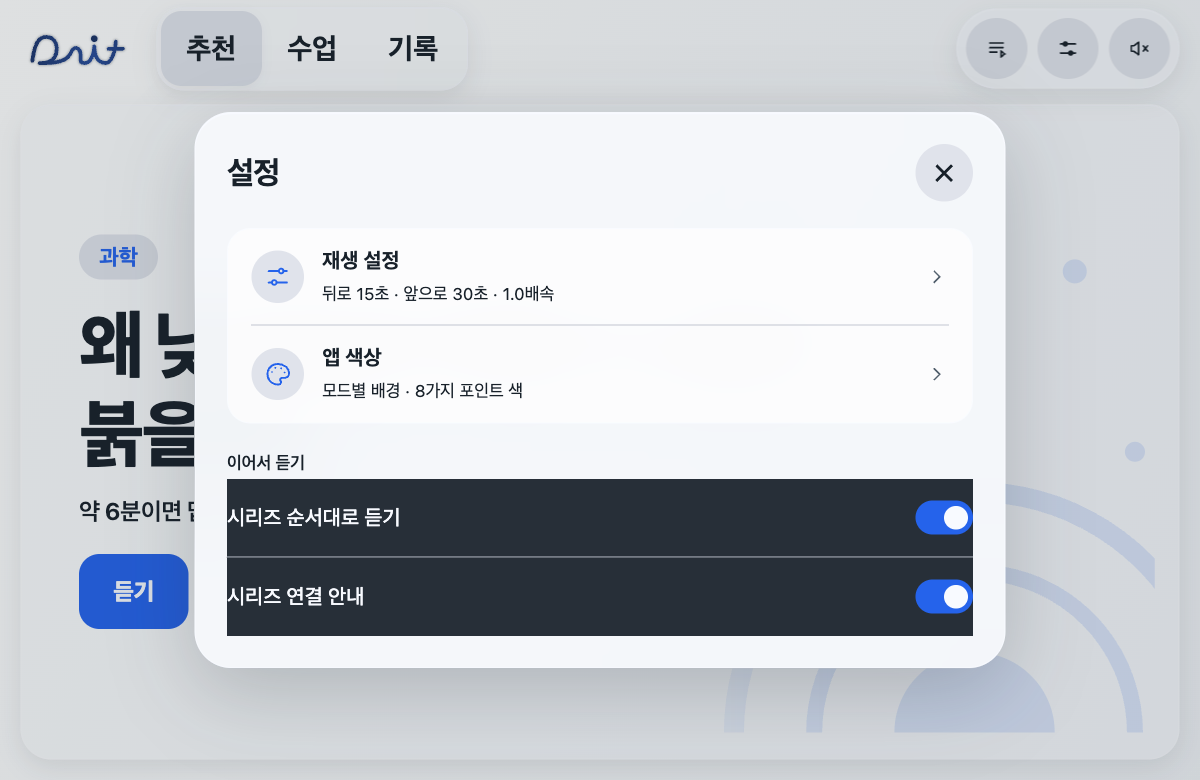
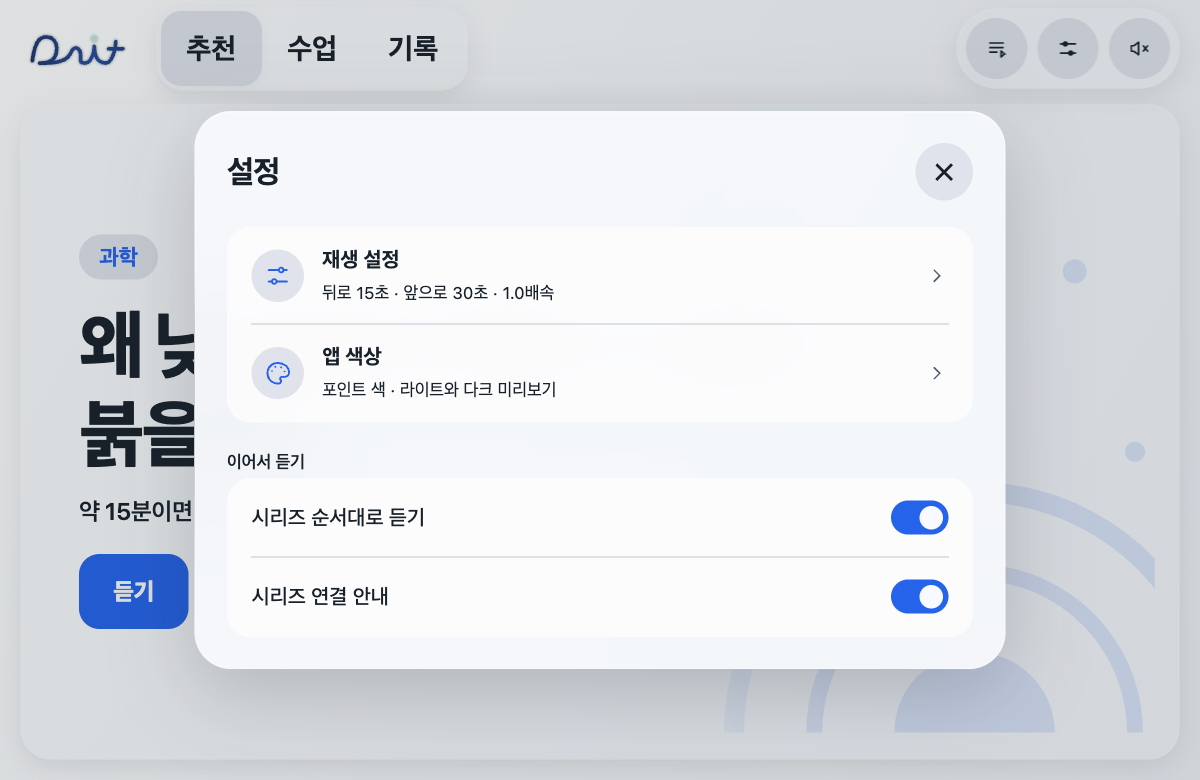
Fix color selection and preview one accent in both appearance modes

diff --git a/android/app/src/main/assets/dait-appearance.js b/android/app/src/main/assets/dait-appearance.js
@@ -1,7 +1,7 @@
 /* Appearance only: native lesson, navigation, rewards and driving rules stay in the app. */
 (() => {
   'use strict';
-  const KEY = 'dait.pearl.colors.v4';
+  const KEY = 'dait.pearl.colors.v5';
   const DEFAULT = { start:'#ffffff', end:'#eef1f5', accent:'#2563eb' };
   const DARK = { start:'#090b0e', end:'#1b2028', accent:'#2563eb' };
   const ACCENTS = [['#2563eb','블루'],['#7c3aed','바이올렛'],['#c72975','로즈'],['#d74b36','코랄'],['#a86b12','앰버'],['#16834e','그린'],['#007d87','틸'],['#536378','슬레이트']];
@@ -10,19 +10,22 @@
   const rgb = hex => [1, 3, 5].map(i => parseInt(hex.slice(i, i + 2), 16));
   const luminance = c => c.map(v => { v /= 255; return v <= .04045 ? v / 12.92 : ((v + .055) / 1.055) ** 2.4; }).reduce((sum,v,i)=>sum+v*[.2126,.7152,.0722][i],0);
   const contrast = (a,b)=>(Math.max(a,b)+.05)/(Math.min(a,b)+.05);
-  const cloneProfiles = value => ({mode:value.mode,light:{...value.light},dark:{...value.dark}});
+  const makeProfiles = (mode,accent) => ({mode,light:{...DEFAULT,accent},dark:{...DARK,accent}});
+  const storedAppearance = value => ({mode:value.mode,accent:value[value.mode].accent});
   const validAccent = value => ACCENTS.some(([hex])=>hex===value);
-  let profiles = {mode:'light',light:{...DEFAULT},dark:{...DARK}};
+  let profiles = makeProfiles('light',DEFAULT.accent);
   const stored = settingsStore.read(KEY,null);
-  if(stored && ['light','dark'].includes(stored.mode) && validAccent(stored.light?.accent) && validAccent(stored.dark?.accent)) {
-    profiles = {mode:stored.mode,light:{...DEFAULT,accent:stored.light.accent},dark:{...DARK,accent:stored.dark.accent}};
+  if(stored && ['light','dark'].includes(stored.mode) && validAccent(stored.accent)) {
+    profiles = makeProfiles(stored.mode,stored.accent);
   } else {
-    // Keep legacy palettes intact; only carry their mode into the new neutral appearance.
+    // Preserve old palettes; migrate the current mode's accent to both previews.
+    const v4 = settingsStore.read('dait.pearl.colors.v4',null);
     const previous = settingsStore.read('dait.pearl.colors.v3',null) || settingsStore.read('dait.pearl.colors.v2',null);
     const legacy = settingsStore.read('dait.pearl.colors.v1',null);
-    if(previous && ['light','dark'].includes(previous.mode) && HEX.test(previous.light?.start||'') && HEX.test(previous.dark?.start||''))profiles.mode=previous.mode;
+    if(v4 && ['light','dark'].includes(v4.mode) && validAccent(v4[v4.mode]?.accent))profiles=makeProfiles(v4.mode,v4[v4.mode].accent);
+    else if(previous && ['light','dark'].includes(previous.mode) && HEX.test(previous.light?.start||'') && HEX.test(previous.dark?.start||''))profiles.mode=previous.mode;
     else if(legacy && HEX.test(legacy.start||'') && HEX.test(legacy.end||'') && luminance(rgb(legacy.start))+luminance(rgb(legacy.end))<.55)profiles.mode='dark';
-    try{settingsStore.write(KEY,profiles)}catch(_){/* Apply even if storage is unavailable. */}
+    try{settingsStore.write(KEY,storedAppearance(profiles))}catch(_){/* Apply even if storage is unavailable. */}
   }
   let saved = { ...profiles[profiles.mode] };
   let active = { ...saved }, draft = null, dialog = null, focusBefore = null, frame = 0, noticeTimer;
@@ -52,7 +55,9 @@
     return n.length >= 3 ? [...n.slice(0, 3), n.length === 4 ? n[3] : 1] : [0, 0, 0, 0];
   }
   function measure(element) {
-    if (!element.getClientRects().length || element.matches('.pearl-theme-btn[aria-pressed=true]')) return null;
+    // Decorative switch tracks contain hidden state copy, not rendered text.
+    // Measuring them as text can replace an entire settings row with a dark plate.
+    if (element.closest('[aria-hidden="true"],.pearl-mode-preview') || !element.getClientRects().length || element.matches('.pearl-theme-btn[aria-pressed=true]')) return null;
     const range = document.createRange(); range.selectNodeContents(element);
     let rect = range.getBoundingClientRect(); if (!rect.width) rect = element.getBoundingClientRect();
     if (!rect.width) return null;
@@ -281,11 +286,11 @@
     const toggle = (action, label, on) => `<button class="pearl-settings-switch" data-appearance-action="${action}" role="switch" aria-checked="${on}"><strong>${label}</strong><span aria-hidden="true">${on ? '켜짐' : '꺼짐'}</span></button>`;
     shell('설정', `<div class="pearl-settings-menu pearl-settings-home"><div class="pearl-settings-group">
       ${row('playback', '재생 설정', `뒤로 ${lessonIntervalText(prefs.back)} · 앞으로 ${lessonIntervalText(prefs.forward)} · ${prefs.rate.toFixed(1)}배속`)}
-      ${row('colors', '앱 색상', '모드별 배경 · 8가지 포인트 색')}
-      </div><h3 class="pearl-settings-section">이어서 듣기</h3>
+      ${row('colors', '앱 색상', '포인트 색 · 라이트와 다크 미리보기')}
+      </div><h3 class="pearl-settings-section">이어서 듣기</h3><div class="pearl-settings-group">
       ${toggle('series', '시리즈 순서대로 듣기', seriesOn())}
       ${toggle('series-cues', '시리즈 연결 안내', lessonQueue.cues)}
-    </div>`);
+    </div></div>`);
   };
   window.playlistNotice = notice;
   window.openDaitPanel = (title, body, className, handler) => {
@@ -336,28 +341,34 @@
 
   function openColors() {
     if(!vehiclePolicy.allows('settings')){notice('주행중엔 설정을 바꿀 수 없어요.');return;}
-    const draftProfiles=cloneProfiles(profiles);
-    let editingMode=profiles.mode;
-    shell('앱 색상', `<form id="pearlColorForm"><div class="pearl-color-modes" role="group" aria-label="화면 모드">${[['light','라이트 모드'],['dark','다크 모드']].map(([mode,label])=>`<button type="button" class="pearl-color-mode" data-color-mode="${mode}" aria-pressed="false">${label}</button>`).join('')}</div><div class="pearl-accent-preview"><strong>나의 배움</strong><span>화이트·블랙 기반의 차분한 배경</span><i aria-hidden="true"></i></div><h3 class="pearl-accent-title">포인트 컬러</h3><div class="pearl-accent-options" role="group" aria-label="포인트 컬러">${ACCENTS.map(([hex,name])=>`<button type="button" data-accent="${hex}" aria-label="${name}" aria-pressed="false"><span style="--swatch:${hex}" aria-hidden="true"></span><small>${name}</small></button>`).join('')}</div><div class="pearl-settings-footer"><p id="pearlColorMessage" role="status">모드마다 따로 저장돼요.</p><button class="primary-btn" type="submit">저장</button></div></form>`);
+    let selectedAccent=profiles[profiles.mode].accent, selectedMode=profiles.mode;
+    const play='<svg viewBox="0 0 24 24" fill="currentColor" aria-hidden="true"><path d="m9 5 11 7-11 7z"/></svg>';
+    shell('앱 색상', `<form id="pearlColorForm"><h3 class="pearl-accent-title">포인트 컬러</h3><div class="pearl-accent-options" role="group" aria-label="포인트 컬러">${ACCENTS.map(([hex,name])=>`<button type="button" data-accent="${hex}" aria-label="${name}" aria-pressed="false"><span style="--swatch:${hex}" aria-hidden="true"><svg viewBox="0 0 24 24" fill="none" stroke="currentColor" stroke-width="2.4"><path d="m6 12 4 4 8-9"/></svg></span></button>`).join('')}</div><div class="pearl-mode-previews" role="group" aria-label="화면 모드 미리보기">${[['light','라이트'],['dark','다크']].map(([mode,label])=>`<button type="button" class="pearl-mode-preview" data-preview-mode="${mode}" aria-label="${label} 모드 적용" aria-pressed="false"><span class="pearl-preview-label">${label}<i aria-hidden="true"></i></span><span class="pearl-preview-screen"><span class="pearl-preview-heading">나의 배움</span><span class="pearl-preview-content"><strong>동백꽃과 점순이</strong><span class="pearl-preview-wave" aria-hidden="true">${[12,23,30,20,12].map(h=>`<i style="height:${h}px"></i>`).join('')}</span></span><span class="pearl-preview-controls" aria-hidden="true"><i class="pearl-preview-play">${play}</i><i class="pearl-preview-track"></i></span></span></button>`).join('')}</div><div class="pearl-settings-footer"><p id="pearlColorMessage" role="status"></p><button class="primary-btn" type="submit">저장</button></div></form>`);
     dialog.classList.add('pearl-color-dialog','pearl-neutral-colors');
     const sync=()=>{
-      const selected=draftProfiles[editingMode];
-      dialog.querySelectorAll('[data-color-mode]').forEach(b=>b.setAttribute('aria-pressed',String(b.dataset.colorMode===editingMode)));
-      dialog.querySelectorAll('[data-accent]').forEach(b=>b.setAttribute('aria-pressed',String(b.dataset.accent===selected.accent)));
-      apply(selected,editingMode);
+      apply({...profiles[selectedMode],accent:selectedAccent},selectedMode);
+      dialog.querySelectorAll('[data-accent]').forEach(b=>b.setAttribute('aria-pressed',String(b.dataset.accent===selectedAccent)));
+      dialog.querySelectorAll('[data-preview-mode]').forEach(b=>{
+        const mode=b.dataset.previewMode, colors={...(mode==='light'?DEFAULT:DARK),accent:selectedAccent};
+        b.setAttribute('aria-pressed',String(mode===selectedMode));
+        for(const [key,value] of Object.entries(DaitPalette.derive(colors,mode).tokens))b.style.setProperty(key,value);
+        b.style.setProperty('--preview-label-ink',palette.tokens['--ink']);
+        b.style.setProperty('--preview-label-muted',palette.tokens['--muted']);
+        b.style.setProperty('--preview-selected',palette.tokens['--lilac']);
+        b.style.setProperty('--preview-bg',`linear-gradient(120deg,${colors.start},${colors.end})`);
+      });
     };
     dialog.addEventListener('click',e=>{
-      const mode=e.target.closest('[data-color-mode]')?.dataset.colorMode;
-      if(mode){editingMode=mode;sync();return;}
-      const accent=e.target.closest('[data-accent]')?.dataset.accent;
-      if(validAccent(accent)){draftProfiles[editingMode].accent=accent;sync();}
+      const button=e.target.closest('button');if(!button || !dialog?.contains(button))return;
+      if(button.dataset.previewMode){selectedMode=button.dataset.previewMode;sync();return;}
+      if(validAccent(button.dataset.accent)){selectedAccent=button.dataset.accent;sync();}
     });
     dialog.querySelector('form').addEventListener('submit',e=>{
       e.preventDefault();
       if(isDrivingMode){close();notice('주행중엔 설정을 바꿀 수 없어요.');return;}
-      draftProfiles.mode=editingMode;
-      try{settingsStore.write(KEY,draftProfiles)}catch(_){dialog.querySelector('#pearlColorMessage').textContent='저장할 수 없어요. 기기 저장 공간을 확인해 주세요.';return;}
-      profiles=cloneProfiles(draftProfiles);saved={...profiles[profiles.mode]};close();
+      const next=makeProfiles(selectedMode,selectedAccent);
+      try{settingsStore.write(KEY,storedAppearance(next))}catch(_){dialog.querySelector('#pearlColorMessage').textContent='저장할 수 없어요. 기기 저장 공간을 확인해 주세요.';return;}
+      profiles=next;saved={...profiles[profiles.mode]};close();
     });
     sync();
   }
@@ -365,7 +376,7 @@
     if (isDrivingMode) return;
     profiles.mode = profiles.mode === 'dark' ? 'light' : 'dark';
     saved = { ...profiles[profiles.mode] };
-    try { settingsStore.write(KEY, profiles); } catch (_) { /* 이번 화면에서만 바꾼다. */ }
+    try { settingsStore.write(KEY, storedAppearance(profiles)); } catch (_) { /* 이번 화면에서만 바꾼다. */ }
     apply(saved);
     document.querySelector('.pearl-theme-btn')?.setAttribute('aria-pressed', String(profiles.mode === 'dark'));
   };

diff --git a/android/app/src/main/assets/dait-pearl.css b/android/app/src/main/assets/dait-pearl.css
@@ -654,17 +654,33 @@ button.pearl-badge { color:var(--ink); cursor:pointer; font-family:inherit; }
 .badge-detail-copy h3 { margin:16px 0 7px;font-size:16px;color:var(--ink); }
 .badge-detail-copy h3:first-child {margin-top:0}
 .badge-detail-copy p { margin:0;line-height:1.65;font-size:15px;color:var(--muted);overflow-wrap:anywhere; }
-.pearl-neutral-colors .pearl-accent-preview {padding:18px;margin:14px 0;background:var(--glass-raised);border:1px solid var(--glass-edge);border-radius:16px;display:flex;flex-direction:column;gap:8px;}
-.pearl-accent-preview strong {font-size:20px;color:var(--lilac);}
-.pearl-accent-preview span {font-size:13px;color:var(--muted);}
-.pearl-accent-preview i {height:4px;width:35%;border-radius:4px;background:var(--lilac);}
-.pearl-accent-title {font-size:16px;margin:16px 0 10px;}
-.pearl-accent-options {display:grid;grid-template-columns:repeat(4,minmax(0,1fr));gap:8px;}
-.pearl-accent-options button {display:flex;align-items:center;justify-content:center;flex-direction:column;gap:7px;min-height:68px;padding:8px 4px;border:1px solid transparent;border-radius:12px;background:transparent;color:var(--ink);}
-.pearl-accent-options button[aria-pressed=true] {border-color:var(--lilac);background:var(--soft);}
-.pearl-accent-options button>span {height:26px;width:26px;background:var(--swatch);border-radius:50%;}
-.pearl-accent-options small {font-size:12px;}
-@container(max-height:460px){.pearl-neutral-colors .pearl-accent-preview{display:none}.pearl-accent-options button{min-height:52px;gap:4px;padding:5px}.pearl-accent-options button>span{width:20px;height:20px}.pearl-accent-title{margin:12px 0 7px}.badge-detail-copy h3{margin:10px 0 4px}}
+/* One accent, with light and dark examples visible together. */
+.pearl-neutral-colors .pearl-accent-title {font-size:15px;margin:0 0 10px;}
+.pearl-accent-options {display:grid;grid-template-columns:repeat(8,minmax(44px,1fr));gap:6px;}
+.pearl-settings-dialog .pearl-accent-options button {display:grid;place-items:center;min-width:44px;min-height:48px;padding:4px;border:0;border-radius:50%;background:transparent;cursor:pointer;}
+.pearl-accent-options button>span {display:grid;place-items:center;width:30px;height:30px;border-radius:50%;background:var(--swatch);color:#fff;box-shadow:0 0 0 3px var(--glass-menu),0 0 0 5px transparent;}
+.pearl-accent-options button[aria-pressed=true]>span {box-shadow:0 0 0 3px var(--glass-menu),0 0 0 5px var(--swatch);}
+.pearl-accent-options svg {width:17px;height:17px;visibility:hidden;}
+.pearl-accent-options [aria-pressed=true] svg {visibility:visible;}
+.pearl-mode-previews {display:grid;grid-template-columns:repeat(2,minmax(0,1fr));gap:14px;margin-top:20px;}
+.pearl-settings-dialog .pearl-mode-preview {display:block;min-width:0;text-align:left;padding:0;border:0;background:transparent;border-radius:16px;color:var(--ink);cursor:pointer;}
+.pearl-preview-label {display:flex;align-items:center;justify-content:space-between;margin:0 4px 10px;font-size:14px;color:var(--preview-label-ink);}
+.pearl-preview-label>i {width:16px;height:16px;border:1.5px solid var(--preview-label-muted);border-radius:50%;box-sizing:border-box;}
+[aria-pressed=true]>.pearl-preview-label>i {border:5px solid var(--preview-selected);}
+.pearl-preview-screen {display:block;padding:16px;border-radius:16px;background:var(--preview-bg);box-shadow:inset 0 0 0 1px var(--line);}
+.pearl-preview-heading {display:block;font-size:12px;color:var(--muted);}
+.pearl-preview-content {display:flex;gap:10px;align-items:center;justify-content:space-between;margin:12px 0 18px;}
+.pearl-settings-dialog .pearl-mode-preview strong {font-size:17px;line-height:1.4;color:var(--ink);}
+.pearl-preview-wave {display:flex;gap:3px;align-items:center;flex-shrink:0;}
+.pearl-preview-wave i {width:3px;border-radius:4px;background:var(--lilac);}
+.pearl-preview-controls {display:flex;gap:12px;align-items:center;}
+.pearl-preview-play {display:grid;place-items:center;flex:0 0 32px;width:32px;height:32px;border-radius:50%;background:var(--lilac);color:var(--on-lilac);}
+.pearl-preview-play svg {width:18px;height:18px;}
+.pearl-preview-track {position:relative;height:3px;flex:1;background:var(--soft);border-radius:4px;}
+.pearl-preview-track::before {content:'';display:block;width:40%;height:100%;border-radius:inherit;background:var(--lilac);}
+.pearl-mode-preview[aria-pressed=true] .pearl-preview-screen {box-shadow:inset 0 0 0 2px var(--lilac);}
+@container(max-height:460px){.pearl-mode-previews{margin-top:14px;gap:12px}.pearl-preview-screen{padding:12px}.pearl-preview-content{margin:8px 0 12px}}
+@media(max-width:480px){.pearl-accent-options{grid-template-columns:repeat(4,minmax(44px,1fr));gap:2px}.pearl-mode-previews{gap:10px}.pearl-preview-screen{padding:10px}.pearl-settings-dialog .pearl-mode-preview strong{font-size:14px}.pearl-preview-wave{display:none}}
 @media(max-width:480px){.badge-detail-layout{grid-template-columns:1fr;gap:12px}.badge-detail-art img{max-width:130px}.pearl-nav{gap:6px}.pearl-tools{gap:4px;--tool-pad:6px}.pearl-nav nav button{padding:0 9px}.pearl-brand .dait-brand-badge svg{width:48px}}
 
 @container(max-height:460px){.badge-detail-art img{max-width:170px}.badge-detail-copy h3{font-size:14px}.badge-detail-copy p{font-size:14px;line-height:1.5}}
@@ -687,3 +703,5 @@ button.pearl-badge { color:var(--ink); cursor:pointer; font-family:inherit; }
 .pearl-record-list .pearl-record-state-ring.is-complete{color:#24775d}
 .pearl-night .pearl-record-list .pearl-record-state-ring.is-complete{color:#7dd9b6}
 .pearl-record-scroll[hidden]{display:none}
+
+@container(max-height:460px){.pearl-neutral-colors .pearl-settings-heading{margin-bottom:8px}.pearl-neutral-colors .pearl-accent-title{margin-bottom:6px}.pearl-neutral-colors .pearl-mode-previews{margin-top:10px}}

diff --git a/android/app/src/main/assets/dait-preview.html b/android/app/src/main/assets/dait-preview.html
@@ -4,8 +4,8 @@
   <meta charset="utf-8">
   <meta name="viewport" content="width=device-width, initial-scale=1">
   <title>DAIT</title>
-  <link rel="stylesheet" href="dait-base.css?v=polish-20261111-r3">
-  <link rel="stylesheet" href="dait-pearl.css?v=polish-20261111-r3">
+  <link rel="stylesheet" href="dait-base.css?v=polish-20261111-r4">
+  <link rel="stylesheet" href="dait-pearl.css?v=polish-20261111-r4">
 </head>
 <body>
 
@@ -76,17 +76,17 @@
   <script src="dait-sound-levels.js?v=tts-complete-20261110"></script>
   <script src="dait-series.js?v=horizon-layout-20261110"></script>
   <script src="dait-playlist.js?v=horizon-layout-20261110"></script>
-  <script src="dait-badges.js?v=polish-20261111-r3"></script>
+  <script src="dait-badges.js?v=polish-20261111-r4"></script>
   <script src="dait-app-core.js?v=horizon-layout-20261110"></script>
   <script src="dait-app-audio.js?v=horizon-layout-20261110"></script>
-  <script src="dait-app-home.js?v=polish-20261111-r3"></script>
-  <script src="dait-app-lesson.js?v=polish-20261111-r3"></script>
-  <script src="dait-app-player.js?v=polish-20261111-r3"></script>
-  <script src="dait-app-car.js?v=polish-20261111-r3"></script>
+  <script src="dait-app-home.js?v=polish-20261111-r4"></script>
+  <script src="dait-app-lesson.js?v=polish-20261111-r4"></script>
+  <script src="dait-app-player.js?v=polish-20261111-r4"></script>
+  <script src="dait-app-car.js?v=polish-20261111-r4"></script>
   <script src="dait-app-playlist.js?v=horizon-layout-20261110"></script>
   <script src="dait-app-start.js?v=horizon-layout-20261110"></script>
-  <script src="dait-palette.js?v=polish-20261111-r3"></script>
-  <script src="dait-appearance.js?v=polish-20261111-r3"></script>
+  <script src="dait-palette.js?v=polish-20261111-r4"></script>
+  <script src="dait-appearance.js?v=polish-20261111-r4"></script>
   <script src="dait-queue-ui.js?v=pearl-settings-20261110"></script>
   <script src="dait-volume.js?v=horizon-layout-20261110"></script>
 </body>

diff --git a/현재-작업상태.md b/현재-작업상태.md
@@ -8,7 +8,7 @@
 - 수업 7편, 조각 317개다. 309개는 음원이 있고, 2026-11-10에 매미 분량을 늘리려고 더한 8조각(b9·q3·b10·b13·b11·b12·m11·m12)은 음원 대기다(`voice/다시-만들-음원.csv`, 음원 담당 이경민). 음원이 오기 전까지 이 조각은 앱에서 「음원 준비 중」으로 소리 없이 지나가고, 음원 검사가 제출용 앱 만들기를 막는다. 매미는 기존 음원이 약5:08/8:50이었고, 새 조각을 넣으면 실제 말 빠르기로 어림해 약6:30/13:50이다. 8·15·20분 조립은 선택 시간 안에 들어간다. 수업 목록은 [README](README.md), 음원 결과는 [TTS 인계](voice/TTS-인계-2026-11-10.md)에 있다.
 - 시작 화면은 Dait 필기체를 쓰고 i 점에 짧은 소리를 낸다. 보상(깃털·도토리)과 캐릭터는 앱에 없다. 기록 메뉴는 기존 배지 6종을 보존하고 과학·기술·음악·시리즈 완주 4종을 더한 그림 10종을 보여 준다(2026-11-10 사용자 시안 승인 반영). 2026-11-11 사용자 요청으로 실제 완료 기록에 따른 자동 획득·흑백/컬러·상세 설명을 구현했다. 조건과 날짜를 별도 배지 원장에 누적하며, 현재 기록에 없는 과거 이력은 추정하지 않는다.
 - 학교 정보, 등하교 대화·준비물 안내, 가 볼 만한 곳, 위치·다니는 길 기록, 마이크로 답하기, 문 열림 안내는 앱에 없다.
-- 설정과 재생 설정·재생목록·앱 색상을 「진주 목록」으로 맞췄다. 모달·가림막은 앱 영역 안에 머문다. 라이트 화이트·다크 블랙 기반의 중립 배경과 8가지 포인트 색을 모드별로 저장한다. 같은 수업의 듣던 기록은 최신 위치 하나로 정리한다.
+- 설정과 재생 설정·재생목록·앱 색상을 「진주 목록」으로 맞췄다. 모달·가림막은 앱 영역 안에 머문다. 라이트 화이트·다크 블랙 기반의 중립 배경과 8가지 공통 포인트 색 중 하나를 저장한다. 라이트·다크 예시를 나란히 보여 주고 미리보기를 눌러 밝기를 고른다. 같은 수업의 듣던 기록은 최신 위치 하나로 정리한다.
 
 - 2026-11-10 건너뛰기 막기: 수업은 앞으로 건너뛸 수 없다. 뒤로는 자유롭게, 앞으로는 이번에 들은 곳까지만 간다(재생바·앞으로 버튼·핸들·차 재생바 모두). 화면 시험 183개 통과, 브라우저 미리보기로 확인했고 에뮬레이터에서는 확인 안 함. 자세한 것은 `design/수업-재생-이동.md`.
 - 2026-11-10 묶음 규칙: 대본 표의 「묶음」 칸이 같은 조각(발문과 그 답)은 앱이 함께 넣고 함께 뺀다. 발문을 들었으면 도착이 당겨져도 답은 남기고, 이어 듣기에서도 답부터 넣는다. 동백꽃 q1·b4(b4를 필수로 바꿈), 매미 q2·b7, 인공지능 q3·b8·q5·n5, 하늘색 q1·b7을 묶었다. 대사는 바뀌지 않아 기존 음원 그대로다. 매미 b11은 빠질 수 있는 다음 내용을 예고하던 문장을 녹음 전에 지웠다.
@@ -16,6 +16,7 @@
 
 ## 검사
 
+- 2026-11-11 후속: 색상 클릭이 바깥 앱의 모드 선택으로 처리되던 이벤트 범위를 버튼으로 제한했다. 공통 포인트 색과 양쪽 모드 미리보기로 변경했고 색 이름·개별 저장은 제거했다. 숨겨진 스위치 텍스트가 대비 검사에 잡혀 설정 행이 검게 바뀌던 문제도 수정했다. Node 191/191, 실제 브라우저 8색 클릭·키보드·저장/재접속·취소 및 665×420/390×844 확인.
 - 2026-11-11 UI 수정: 화면·기능 시험 190개 통과. 브라우저에서 1200×780·665×420·390×844 기록 링/재생, 배지 상세, 모드별 색 저장, 실제 음원 재생과 들은 범위 내 이동을 확인했다. 추천 분량과 재생 분량 불일치, 조각 재조립 뒤 앞으로 이동 경계를 수정했다. 완료/듣던 기록은 A안 한 목록으로 표시하며 상태 문구와 남은 시간 숫자를 반복하지 않는다. 새 APK 빌드·에뮬레이터 검사는 이번 변경에서 하지 않았다.
 
 

diff --git a/design/앱-배지-재생-설정-수정-2026-11-10.md b/design/앱-배지-재생-설정-수정-2026-11-10.md
@@ -7,7 +7,7 @@
 - [x] 미획득 배지: 터치 시 조건 토스트
 - [x] 일시정지 안내 문구 제거, 플레이·일시정지 아이콘으로 상태 표시
 - [x] 남은 시간은 숫자만 표시
-- [x] 라이트 화이트 / 다크 블랙 기반 그라데이션과 모드별 8가지 포인트 색
+- [x] 라이트 화이트 / 다크 블랙 기반 그라데이션과 공통 8가지 포인트 색
 - [x] 재생목록 진입은 목록에 남기고 설정의 재생목록 항목 제거
 - [x] 상단 라이트·다크 터치 버튼 제거
 - [x] 마우스 이동 때 보이는 카드 불투명 선 제거
@@ -25,7 +25,7 @@
 - 추천 카드에서 짧은 수업을 누를 때 기존 15분 세션이 재사용되던 문제를 수정했다.
 - 마우스 위치만 달리한 화면은 애니메이션을 잠시 정지한 조건에서 동일한 픽셀이다. 카드의 중첩 backdrop-filter를 제거해 움직이는 불투명 경계를 없앴다.
 - 화면 확인: 1200×780, 차량 기준 665×420, 좁은 창 390×844. 획득 배지 상세는 665×420에서 설명·날짜까지 보인다.
-- 이전 임의 배경 색상 데이터는 삭제하지 않고 v4 중립 배경/모드별 포인트 설정으로 전환한다. 저장하지 않고 닫으면 이전 설정을 복구한다.
+- 이전 임의 배경 색상 데이터는 삭제하지 않고 v5 중립 배경/공통 포인트 설정으로 전환한다. 기존 v4에서는 현재 사용 중인 모드의 포인트 색을 가져와 양쪽 모드에 사용한다. 저장하지 않고 닫으면 이전 설정을 복구한다.
 - 실제 차·새 APK·Android 에뮬레이터 검사는 이번 범위에서 하지 않았다.
 
 ## 배지 조건
@@ -40,3 +40,13 @@
 
 ![전](screens/app-polish-20261111/기록-전.png)
 ![후](screens/app-polish-20261111/기록-A안-후.png)
+
+## 후속 수정: 공통 색과 두 모드 예시
+
+- 사용자 최신 요청에 따라 모드별 개별 색 저장을 폐기했다. 색상 원 8개에 이름을 표시하지 않고, 선택한 한 색의 라이트·다크 적용 예시를 동시에 보여 준다. 미리보기를 누르면 화면 밝기를 선택한다.
+- 색상 클릭의 조상 탐색이 앱 영역의 data-color-mode까지 올라가던 오류를 버튼 범위로 수정했다. 원·체크 SVG·버튼 여백 클릭 및 키보드 Space가 같은 선택으로 처리된다.
+- 대비 검사에서 aria-hidden 장식을 제외하고, 독립된 두 미리보기는 각 모드의 검증된 토큰으로 표시한다. 두 시리즈 스위치는 같은 둥근 목록으로 묶었다.
+- Node 191/191 통과. 브라우저에서 8색 모두 선택, 공통 색 저장/재접속, 미저장 닫기 복구, 키보드 선택, 라이트/다크 설정의 검은 덮개 없음 확인. 665×420에서 스크롤 없이 저장 버튼까지 보인다.
+
+![색상 수정 전](screens/app-polish-20261111/색상-공통색-전.png)
+![색상 수정 후](screens/app-polish-20261111/색상-공통색-후.png)

diff --git a/README.md b/README.md
@@ -10,7 +10,7 @@
 - **재생목록** — +로 맨 뒤에 넣고 토스트에서 바로 다음으로 바꿉니다. 목록의 순서·삭제는 기기에 저장됩니다. 종료 화면에서 다음 수업을 확인하고 5초 자동 재생을 취소하거나 바로 들을 수 있습니다. 자동 재생 스위치도 종료 화면에 있습니다.
 - **시리즈** — 제작자의 수업 자료에 지정한 순서로 듣습니다. 순서대로 듣기·연결 안내는 기본 켜짐이며 설정에서 바꿀 수 있고, 이전 편을 건너뛸 수도 있습니다. 사용자는 시리즈를 만들지 않습니다.
 - **이어 듣기와 기록** — 멈춘 곳부터 다시 듣고, 들은 수업을 기록에 남깁니다. 숙제 기능은 없습니다(2026-11-09 뺌). 완료·듣던 수업 모두 기록의 재생 버튼으로 다시 들을 수 있습니다. 완료는 체크 링, 듣던 수업은 진행 링으로 표시합니다. 배지 10종은 실제 완료 기록에 따라 흑백에서 컬러로 바뀌며, 터치하면 획득 배경·날짜 또는 획득 조건을 보여 줍니다.
-- **앱 색상** — 라이트는 화이트, 다크는 블랙 기반 그라데이션입니다. 각 모드의 포인트 색을 8가지 중 따로 저장합니다. 상단은 재생목록·설정·음량 순서입니다.
+- **앱 색상** — 라이트는 화이트, 다크는 블랙 기반 그라데이션입니다. 포인트 색을 8가지 중 하나 고르면 라이트·다크 예시를 함께 보여 주며, 두 모드에 같은 색을 적용합니다. 상단은 재생목록·설정·음량 순서입니다.
 - **차량 연결** — 주행 중 수업을 들을 때는 재생 화면에 일시정지·앞뒤 이동·음량만 남고 진행 막대와 설정·재생목록은 잠깁니다. 수업을 듣지 않을 때는 문장 하나와 큰 버튼만 보입니다. 핸들 버튼, Gleo 음성 비서(수업 시작·멈춤·이어 듣기)로 조작합니다.
 
 ## 수업
